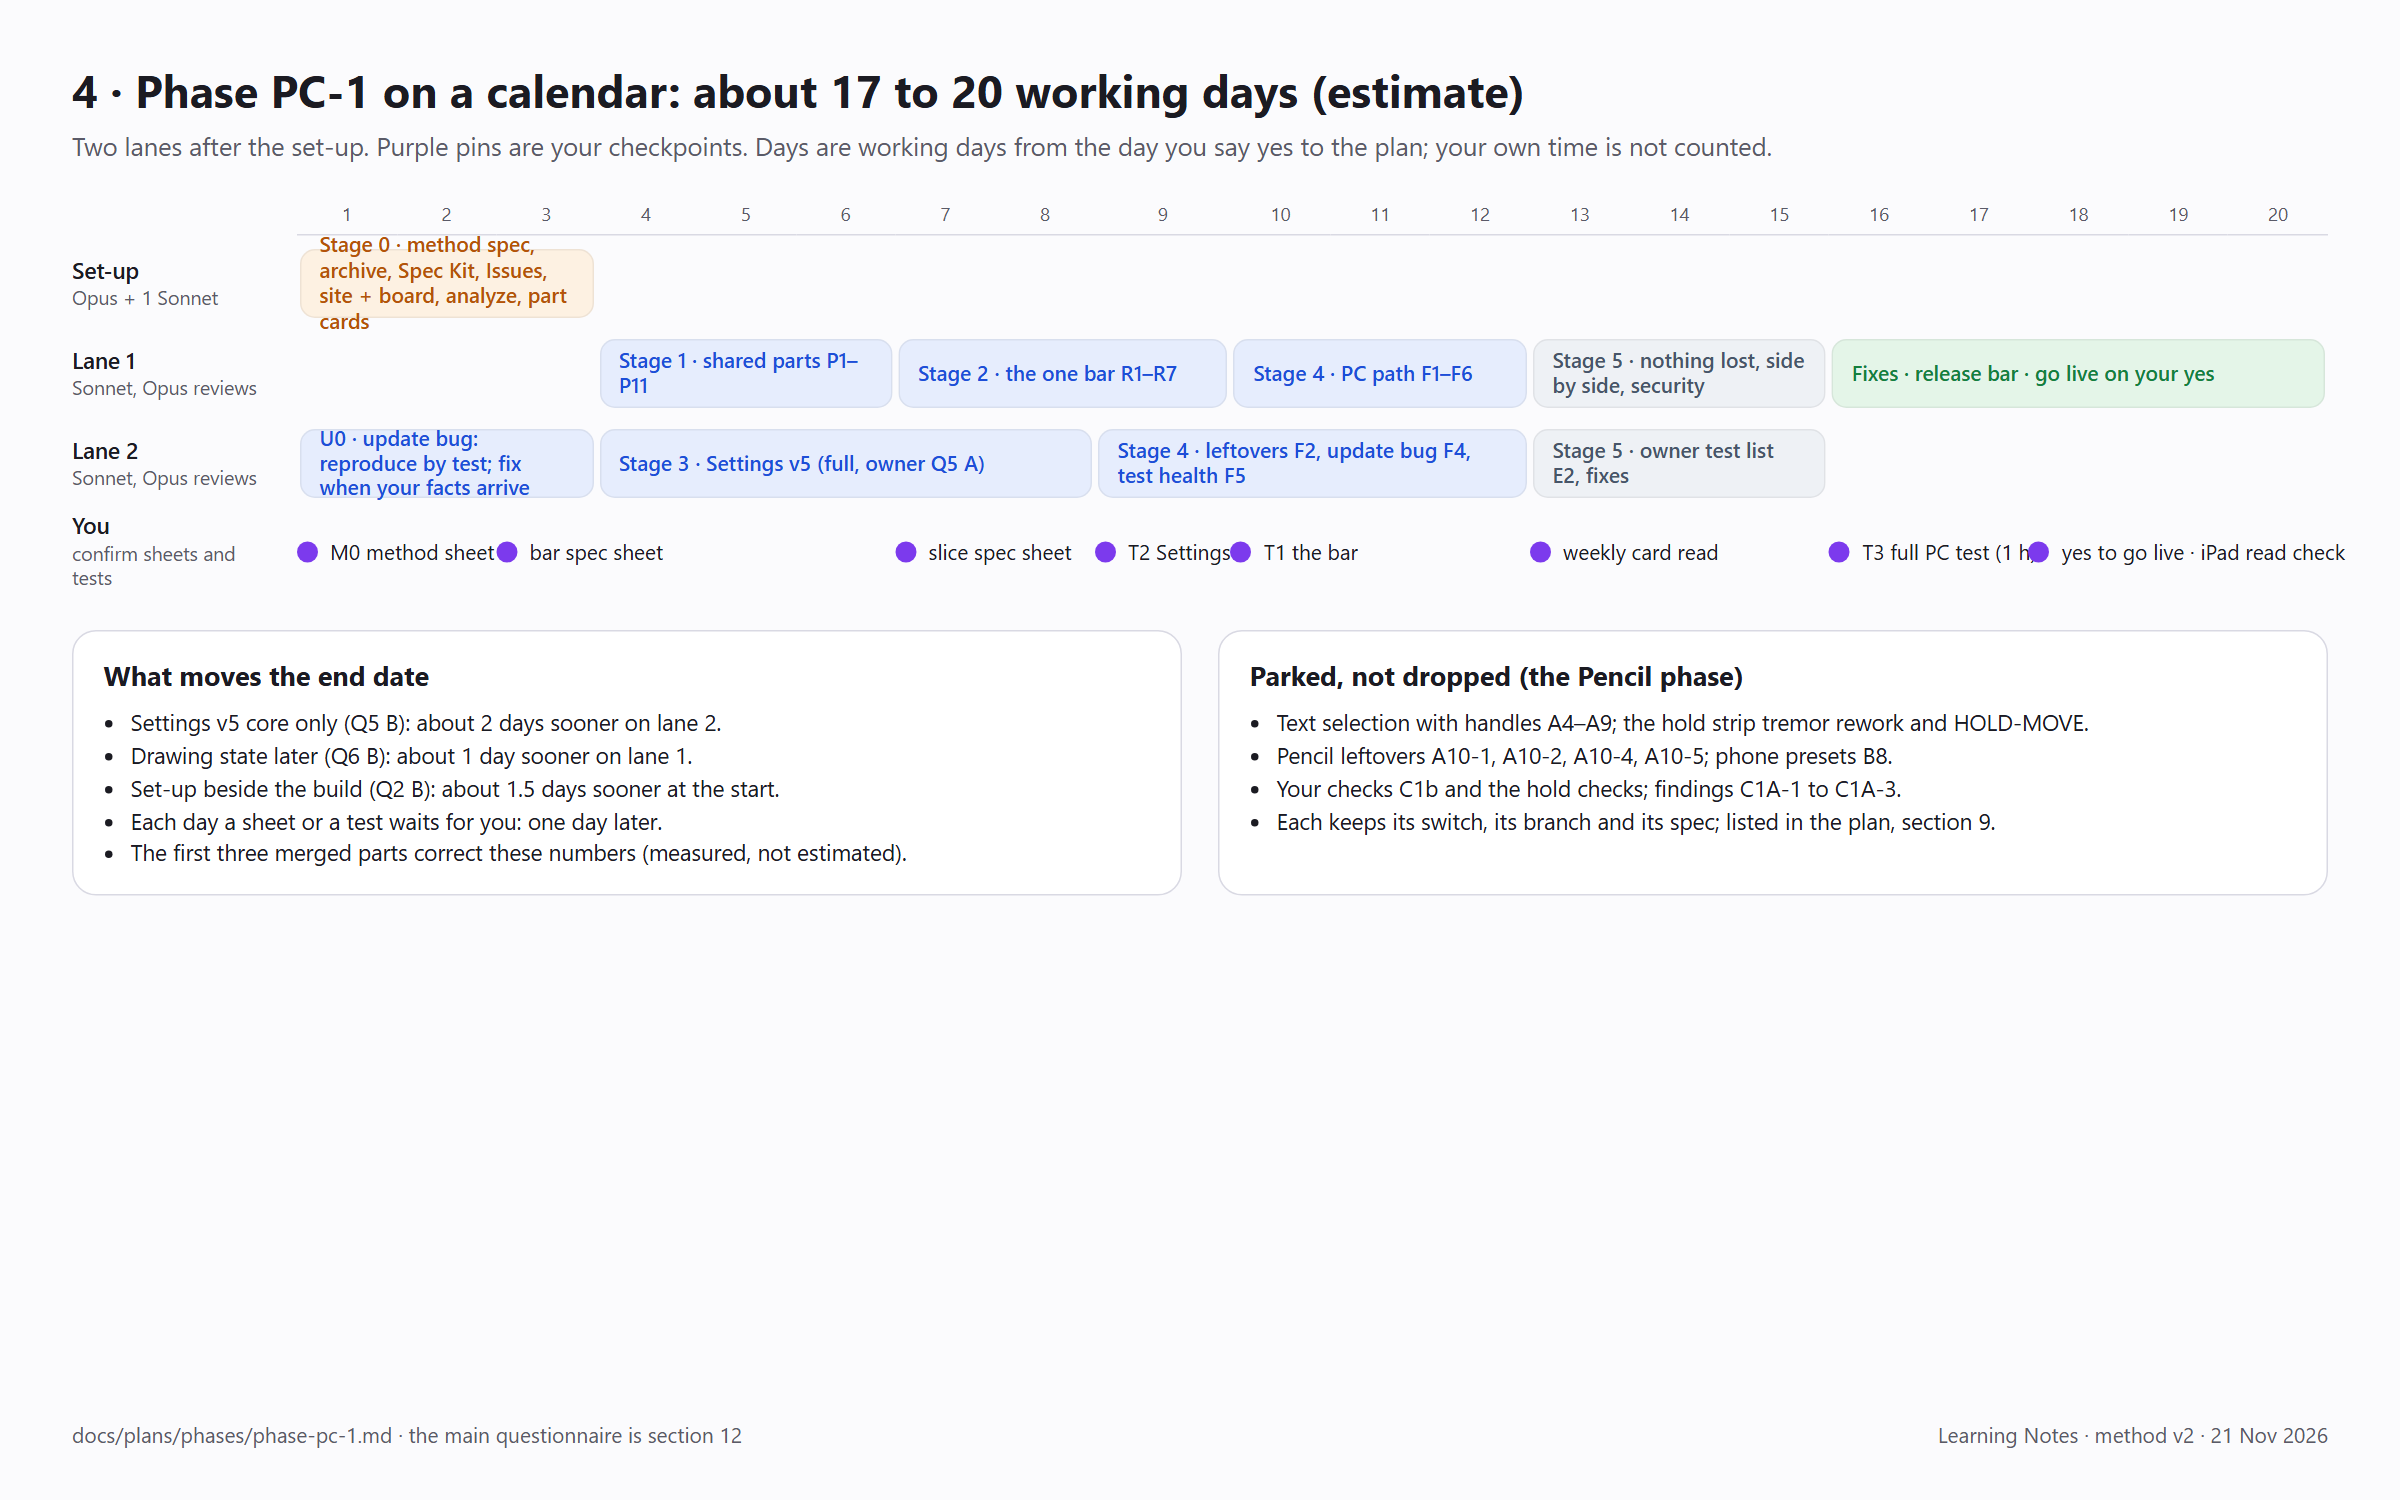
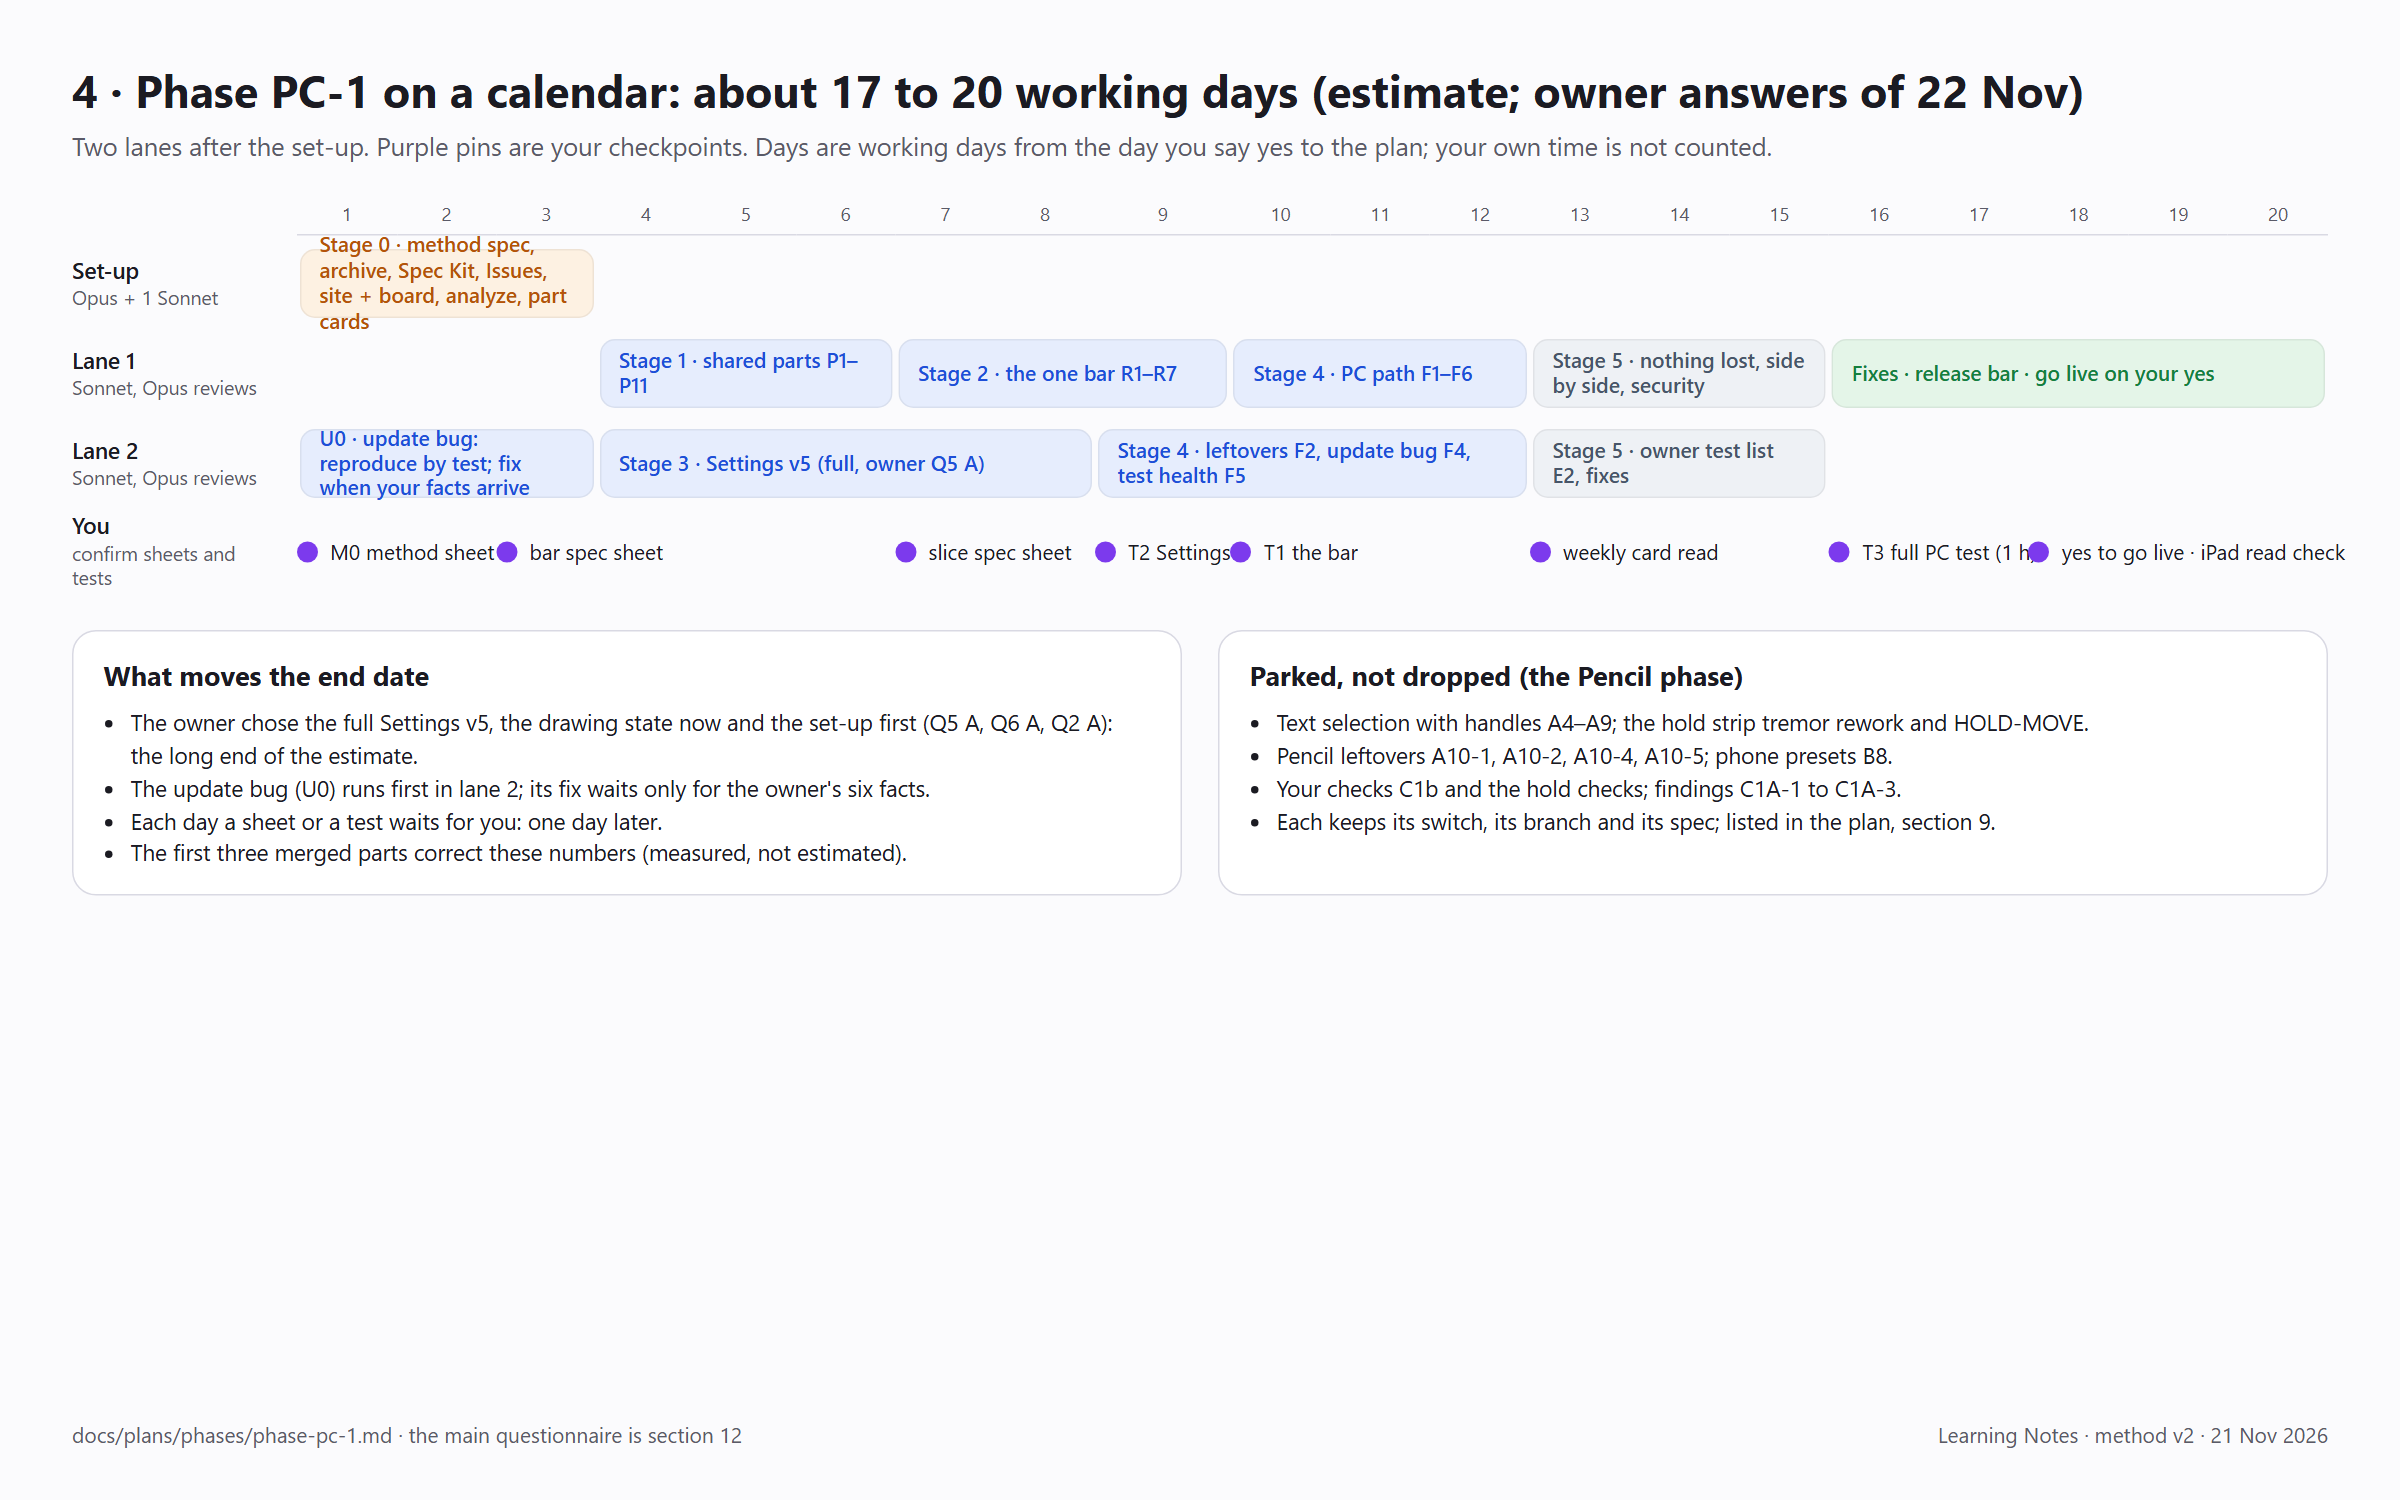
Timeline picture 4: owner answers of 22 Nov (U0 first, full Settings v5)

Changed region(s): [[0.0625, 0.46, 0.4688, 0.552], [0.625, 0.0307, 0.875, 0.092]]

diff --git a/docs/plans/method-v2/timeline.html b/docs/plans/method-v2/timeline.html
@@ -159,7 +159,8 @@
   <body>
     <section class="page" id="t">
       <h1>
-        4 · Phase PC-1 on a calendar: about 17 to 20 working days (estimate)
+        4 · Phase PC-1 on a calendar: about 17 to 20 working days (estimate;
+        owner answers of 22 Nov)
       </h1>
       <p class="sub">
         Two lanes after the set-up. Purple pins are your checkpoints. Days are
@@ -261,12 +262,12 @@
           <h2>What moves the end date</h2>
           <ul>
             <li>
-              Settings v5 core only (Q5 B): about 2 days sooner on lane 2.
+              The owner chose the full Settings v5, the drawing state now and
+              the set-up first (Q5 A, Q6 A, Q2 A): the long end of the estimate.
             </li>
-            <li>Drawing state later (Q6 B): about 1 day sooner on lane 1.</li>
             <li>
-              Set-up beside the build (Q2 B): about 1.5 days sooner at the
-              start.
+              The update bug (U0) runs first in lane 2; its fix waits only for
+              the owner's six facts.
             </li>
             <li>Each day a sheet or a test waits for you: one day later.</li>
             <li>
